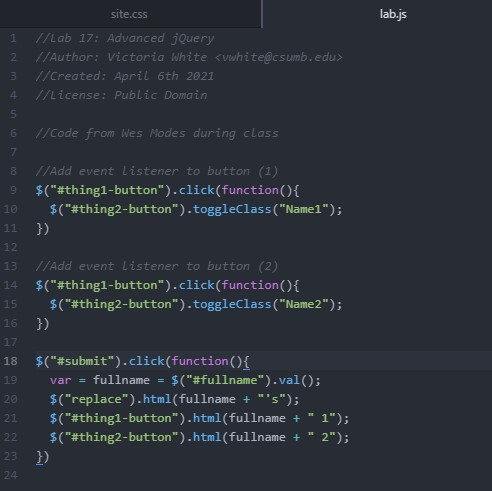
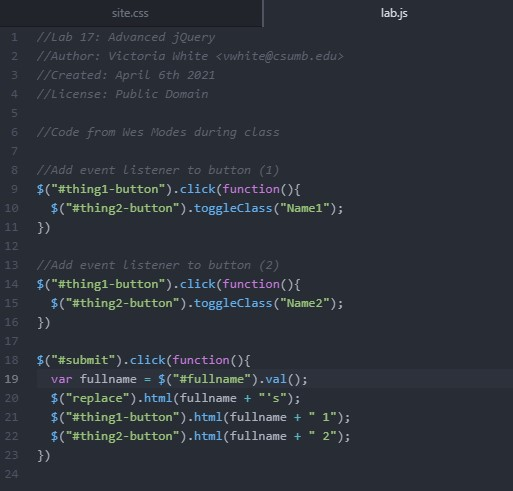
Update 4/11
fixed js code error and replaced jscode.jpg

diff --git a/lab17/js/lab.js b/lab17/js/lab.js
@@ -16,7 +16,7 @@ $("#thing1-button").click(function(){
 })
 
 $("#submit").click(function(){
-  var = fullname = $("#fullname").val();
+  var fullname = $("#fullname").val();
   $("replace").html(fullname + "'s");
   $("#thing1-button").html(fullname + " 1");
   $("#thing2-button").html(fullname + " 2");
